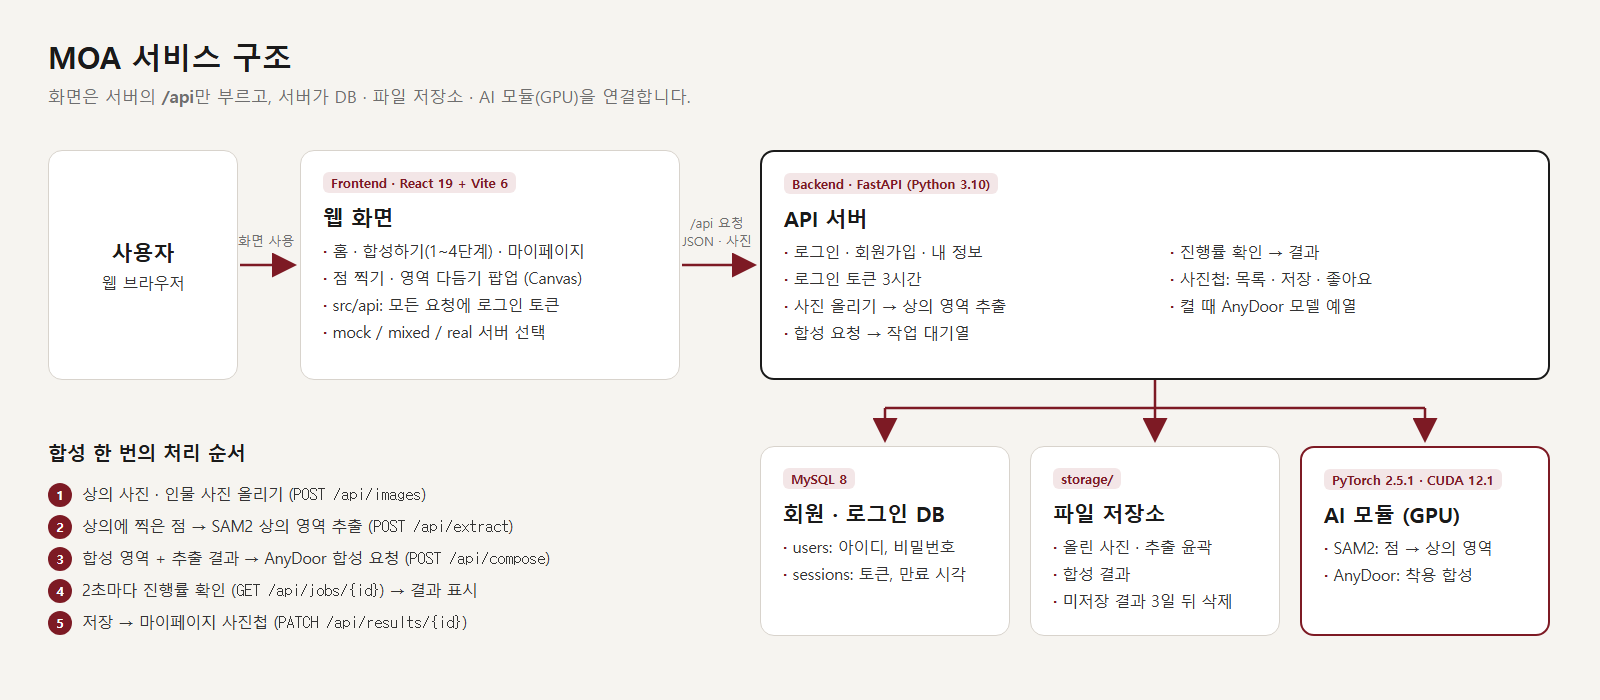
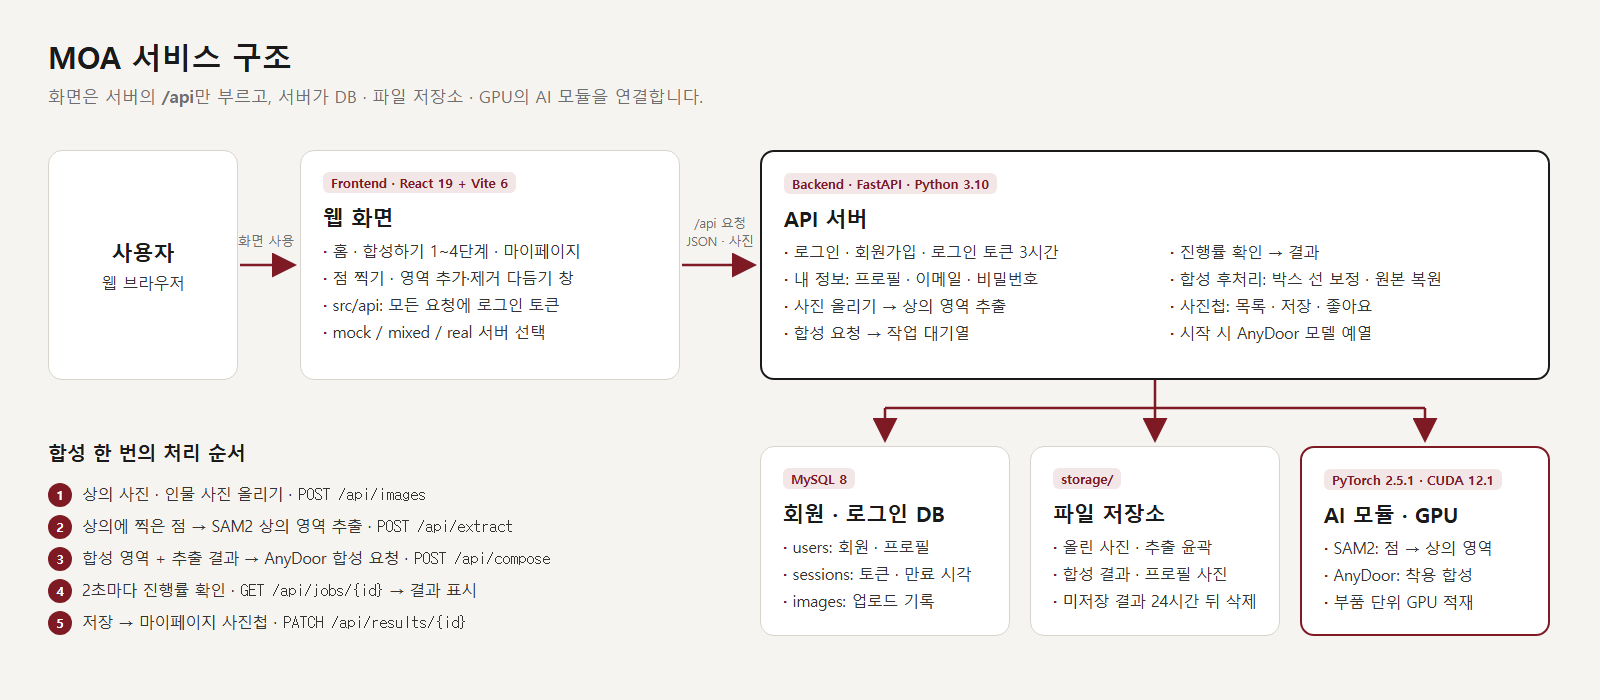
다듬기 창 도구 영역 추가·영역 제거, README 사진 새로 찍기
- 다듬기 창: 브러시·지우개를 아이콘과 영역 추가·영역 제거 이름으로 바꾸고 상단 가운데로 이동
- 설정·고객센터 안내 문구 정리
- README 사진 11장 2026-10-23 화면으로 교체: docs/readme 5장, frontend/docs/images 6장
- 구조도: 미저장 결과 24시간, images 표, 프로필, 합성 후처리, 부품 단위 GPU 적재 반영
- README·frontend/README: 도구 이름 변경, 노란 물체 안내 삭제, 캡처 날짜 표시

diff --git a/frontend/src/pages/Studio.jsx b/frontend/src/pages/Studio.jsx
@@ -1,7 +1,7 @@
 /* 합성하기: 단계별 안내 화면
    1 상의 사진 고르기 -> 2 인물 사진 고르기
-   -> 3 점 찍어 상의 추출 -> 확인 -> 다듬기 팝업(브러시, 지우개) -> 완료
-   -> 4 점 찍어 입힐 영역 추출 -> 확인 -> 다듬기 팝업(브러시, 지우개) -> 다음 -> 합성 설정 팝업(체크 두 개) -> 합성 시작
+   -> 3 점 찍어 상의 추출 -> 확인 -> 다듬기 팝업(영역 추가, 영역 제거) -> 완료
+   -> 4 점 찍어 입힐 영역 추출 -> 확인 -> 다듬기 팝업(영역 추가, 영역 제거) -> 다음 -> 합성 설정 팝업(체크 두 개) -> 합성 시작
    -> 결과, 저장
    오른쪽 "내 작업 기록"은 저장 여부와 관계없이 합성한 결과 전체(명세 6-1)를 보여 준다. 저장하지 않은 결과는 24시간 뒤 서버에서 삭제된다.
    서버 연결 (src/api/studio.js)
@@ -63,7 +63,7 @@ const PICK_TEXT = {
   2: { title: '2. 인물 사진 선택', helpTitle: '권장 사진', help: <>상의를 입힐 <em>인물</em>의 사진을 선택합니다.<br />상반신이 잘 보이는 사진을 권장합니다.</> },
 };
 
-// 버튼 상태가 그대로면 화면을 다시 그리지 않는다 (브러시로 칠하는 동안 매번 다시 그리는 것을 막음)
+// 버튼 상태가 그대로면 화면을 다시 그리지 않는다 (영역 추가로 칠하는 동안 매번 다시 그리는 것을 막음)
 const sameUi = (a, b) => Object.keys(b).every((k) => a[k] === b[k]);
 
 const PANEL_KEYS ={ left: 'moa_panel_left', right: 'moa_panel_right' };
@@ -481,7 +481,7 @@ export default function Studio() {
     go(4);
   };
 
-  /* ---------- 4단계: 합성 영역 지정 (3단계와 같이 점 → SAM2 → 팝업에서 브러시와 지우개) ---------- */
+  /* ---------- 4단계: 합성 영역 지정 (3단계와 같이 점 → SAM2 → 팝업에서 영역 추가와 영역 제거) ---------- */
   const render4 = () => {
     const s = s4.current;
     if (!s.work) return;
@@ -1007,7 +1007,7 @@ export default function Studio() {
         <MaskEditor
           key={editor.kind}
           title="상의 영역 수정"
-          help="빠진 부분은 브러시로 칠하고, 잘못 잡힌 부분은 지우개로 지웁니다."
+          help="빠진 부분은 영역 추가로 칠하고, 잘못 잡힌 부분은 영역 제거로 지웁니다."
           image={editor.image}
           mask={editor.mask}
           cancelLabel="점 재지정"
@@ -1020,7 +1020,7 @@ export default function Studio() {
         <MaskEditor
           key={editor.kind}
           title="합성 영역 수정"
-          help="빠진 부분은 브러시로 칠하고, 잘못 잡힌 부분은 지우개로 지웁니다."
+          help="빠진 부분은 영역 추가로 칠하고, 잘못 잡힌 부분은 영역 제거로 지웁니다."
           image={editor.image}
           mask={editor.mask}
           cancelLabel="점 재지정"

diff --git a/frontend/src/studio/MaskEditor.jsx b/frontend/src/studio/MaskEditor.jsx
@@ -1,4 +1,4 @@
-/* 다듬기 팝업: 점 찍기로 잡은 영역을 브러시(추가)와 지우개(삭제)로 손본다. 3단계(상의 추출)와 4단계(합성 영역)가 같이 쓴다.
+/* 다듬기 팝업: 점 찍기로 잡은 영역을 영역 추가와 영역 제거로 손본다. 3단계(상의 추출)와 4단계(합성 영역)가 같이 쓴다.
    image: 작업용 사진 캔버스, mask: 시작할 영역(흰색 캔버스). 원본은 건드리지 않고 사본을 고쳐서 onDone으로 돌려준다.
    영역은 포토샵 선택 영역처럼 보여 준다: 안쪽은 움직이는 검정·흰색 빗금, 가장자리는 움직이는 흑백 점선 (canvas.js paintSelection).
    확대 보기, 10/21: zoom.js와 같은 보기 상태 사용. 휠·＋/－ 버튼으로 확대, 스페이스바를 누른 채 끌거나 오른쪽·가운데 버튼으로 끌면 이동.
@@ -239,12 +239,19 @@ export default function MaskEditor({ title, help, image, mask, cancelLabel, done
           <h3>{title}</h3>
           <button type="button" className="sg-modal-close" aria-label="닫기" onClick={onCancel}>×</button>
         </div>
-        <div className="sg-help"><b>사용 방법</b><p>{help}</p></div>
+        {/* 도구: 상단 가운데, 아이콘과 하는 일 이름으로 표시 */}
         <div className="sg-tools">
-          <button type="button" className={'sg-tool' + (tool === 'brush' ? ' active' : '')} onClick={() => chooseTool('brush')}>브러시</button>
-          <button type="button" className={'sg-tool' + (tool === 'eraser' ? ' active' : '')} onClick={() => chooseTool('eraser')}>지우개</button>
+          <button type="button" className={'sg-tool' + (tool === 'brush' ? ' active' : '')} onClick={() => chooseTool('brush')}>
+            <svg viewBox="0 0 24 24" aria-hidden="true"><path d="M4 20l4.5-1 9.8-9.8a2.1 2.1 0 0 0-3-3L5.5 16 4 20z" /><path d="M18 15v6M15 18h6" /></svg>
+            영역 추가
+          </button>
+          <button type="button" className={'sg-tool' + (tool === 'eraser' ? ' active' : '')} onClick={() => chooseTool('eraser')}>
+            <svg viewBox="0 0 24 24" aria-hidden="true"><path d="M15.5 4.5l4 4-9 9H6.5l-3-3 12-10z" /><path d="M9 20h11M8.5 10.5l5 5" /></svg>
+            영역 제거
+          </button>
           <label className="sg-size">크기 <input type="range" min="10" max="90" value={size} onChange={(e) => changeSize(Number(e.target.value))} /></label>
         </div>
+        <div className="sg-help"><b>사용 방법</b><p>{help}</p></div>
         <div className="sg-canvas-box" onMouseLeave={() => setRing(null)}>
           <div className="sg-zoom" role="group" aria-label="사진 확대">
             <button type="button" aria-label="확대" onClick={() => zoomBy(1.5)}>＋</button>

diff --git a/frontend/src/mypage/Support.jsx b/frontend/src/mypage/Support.jsx
@@ -10,7 +10,7 @@ const FAQ = [
   ['어떤 사진을 올릴 수 있나요?',
     'JPG·PNG 형식, 10MB 이하 사진을 올릴 수 있습니다. 상의 사진은 상의 전체가 잘 보이는 사진, 인물 사진은 상체가 정면으로 나온 사진일수록 결과가 자연스럽습니다.'],
   ['상의 영역이 잘못 잡혔어요.',
-    '3단계에서 포함할 부분은 왼쪽 클릭, 뺄 부분은 오른쪽 클릭으로 점을 더 찍으면 다시 추출합니다. 경계가 조금 어긋나면 브러시와 지우개로 직접 고칠 수 있습니다.'],
+    '3단계에서 포함할 부분은 왼쪽 클릭, 뺄 부분은 오른쪽 클릭으로 점을 더 찍으면 다시 추출합니다. 경계가 조금 어긋나면 다듬기 창의 영역 추가와 영역 제거로 직접 고칠 수 있습니다.'],
   ['합성은 얼마나 걸리나요?',
     '한 장에 약 25초가 걸립니다. 앞선 합성 요청이 있으면 순서대로 처리하며, 화면에 대기 순번과 진행률이 표시됩니다. 마이페이지 설정에서 합성 완료 알림을 켜면 다른 탭에 있어도 알려 드립니다.'],
   ['저장하지 않은 결과는 어떻게 되나요?',

diff --git a/frontend/src/styles/studio-guide.css b/frontend/src/styles/studio-guide.css
@@ -588,10 +588,13 @@ body { display: flex; flex-direction: column; overflow: hidden; }
   color: var(--muted);
 }
 
-.sg-tools { flex: none; display: flex; align-items: center; gap: 8px; margin-bottom: 10px; }
+.sg-tools { flex: none; display: flex; align-items: center; justify-content: center; gap: 10px; margin-bottom: 12px; }
 .sg-tool {
-  height: 40px;
-  padding: 0 18px;
+  display: inline-flex;
+  align-items: center;
+  gap: 8px;
+  height: 44px;
+  padding: 0 20px;
   border: 1.5px solid var(--border);
   background: var(--white);
   color: var(--muted);
@@ -601,8 +604,9 @@ body { display: flex; flex-direction: column; overflow: hidden; }
 }
 .sg-tool:hover { border-color: #b9b5a8; }
 .sg-tool.active { border-color: var(--ink); background: var(--ink); color: #fff; }
+.sg-tool svg { width: 20px; height: 20px; fill: none; stroke: currentColor; stroke-width: 1.8; stroke-linecap: round; stroke-linejoin: round; }
 .sg-size {
-  margin-left: auto;
+  margin-left: 14px;
   display: flex;
   align-items: center;
   gap: 8px;

diff --git a/frontend/src/mypage/Settings.jsx b/frontend/src/mypage/Settings.jsx
@@ -280,7 +280,7 @@ export function ServiceSettings({ showToast }) {
       <Section id="set-notify" title="알림 설정" desc="이 브라우저에서 받을 알림입니다. 기기마다 따로 설정합니다.">
         <NotifyForm showToast={showToast} />
       </Section>
-      <Section id="set-compose" title="합성 기본 설정" desc="합성 설정 창에 처음부터 선택해 둘 항목입니다. 합성할 때마다 바꿀 수 있습니다.">
+      <Section id="set-compose" title="합성 기본 설정" desc="합성 시 기본으로 선택되는 항목입니다. 합성마다 변경할 수 있습니다.">
         <ComposeDefaultsForm showToast={showToast} />
       </Section>
     </>

diff --git a/frontend/README.md b/frontend/README.md
@@ -37,10 +37,10 @@
 - **마우스 휠로 확대**, 끌어서 이동, 휴대폰은 두 손가락으로 확대 (최대 6배, `src/studio/zoom.js`). 확대해도 점은 원본 사진 위치로 정확히 보낸다
 - "확인"을 누르면 점을 서버에 보내 SAM2로 상의 윤곽을 찾고(명세 4-1, 약 2.5초) 다듬기 창을 연다
 
-![다듬기 창: 선택 영역 표시와 지우개](docs/images/step3_refine.jpg)
+![다듬기 창: 선택 영역 표시와 영역 제거](docs/images/step3_refine.jpg)
 
-- 다듬기 창(`src/studio/MaskEditor.jsx`): 브러시로 빠진 부분을 칠하고 지우개로 잘못 잡힌 부분을 지운다. 크기 조절, 실행 취소
-- 다듬기 창 확대: 휠·＋/－ 버튼으로 확대, 스페이스바를 누른 채 끌거나 오른쪽 버튼으로 끌면 이동, "전체"로 원래 크기. 브러시 크기는 화면 기준이라 확대할수록 경계를 가늘게 고칠 수 있다
+- 다듬기 창 `src/studio/MaskEditor.jsx`: 상단 가운데 도구의 영역 추가로 빠진 부분을 칠하고 영역 제거로 잘못 잡힌 부분을 지운다. 크기 조절, 실행 취소
+- 다듬기 창 확대: 휠·＋/－ 버튼으로 확대, 스페이스바를 누른 채 끌거나 오른쪽 버튼으로 끌면 이동, "전체"로 원래 크기. 도구 크기는 화면 기준이라 확대할수록 경계를 가늘게 고칠 수 있다
 - 선택 영역은 검정·흰 빗금과 움직이는 점선으로 표시한다 (채도 0이라 어떤 색 옷 위에서도 보임)
 - 점을 바꾸지 않았으면 서버에 다시 묻지 않고 지난번에 다듬은 영역에서 이어서 한다
 
@@ -135,7 +135,7 @@ frontend/
    ├─ studio/
    │  ├─ canvas.js          그리기 도우미 (사진 맞추기, 점, 선택 영역 표시, 사진이 칸으로 날아가는 효과)
    │  ├─ zoom.js            3·4단계 확대·이동·두 손가락 확대
-   │  └─ MaskEditor.jsx     다듬기 창: 브러시·지우개, 확대·이동
+   │  └─ MaskEditor.jsx     다듬기 창: 영역 추가·영역 제거, 확대·이동
    ├─ auth/
    │  ├─ AuthContext.jsx    로그인 상태, 로그인 창
    │  ├─ SignupModal.jsx    회원가입 창
@@ -192,13 +192,13 @@ frontend/
 
 ## 9. 확인한 것 (2026-10-17)
 
-- 실제 서버 전체 흐름: 로그인 → 상의·인물 예시 선택 → 3단계 점 2개, SAM2 추출 5초 → 지우개 보정 → 4단계 → 합성 56초 → 저장 → 초기화 → 작업 기록에서 1~4단계 복원 → 재합성 → 마이페이지 사진첩
+- 실제 서버 전체 흐름: 로그인 → 상의·인물 예시 선택 → 3단계 점 2개, SAM2 추출 5초 → 영역 제거 보정 → 4단계 → 합성 56초 → 저장 → 초기화 → 작업 기록에서 1~4단계 복원 → 재합성 → 마이페이지 사진첩
 - Cloudflare 터널로 휴대폰·외부 PC 접속, 합성 포함 전체 흐름
 - `npm run lint`, `npm run build` 통과
 - 2026-10-20 마이페이지: 설정 저장 뒤 프로필 카드 즉시 반영, 서버 오류 문구 표시, ⋯ 메뉴·크게 보기, 다운로드할 결과 파일 응답 200, 계정 설정 항목별 화면·설정·고객센터 전환, 합성 기본 설정 저장, 휴대폰 폭 375px 가로 스크롤 없음
 
 ## 10. 남은 일
 
-- 휴대폰: 다듬기 창 브러시가 동작하지 않고, 제외 점(오른쪽 클릭)을 찍을 방법이 없다
+- 휴대폰: 다듬기 창 영역 추가가 동작하지 않고, 제외 점(오른쪽 클릭)을 찍을 방법이 없다
 - 로그인 시간 연장: API 함수(`extendLogin`)는 있지만 화면에 연결하지 않았다 (`docs/login_extend.md`)
 - 사진첩 결과 삭제: 명세 6-3이 미정이라 메뉴에 없다

diff --git a/README.md b/README.md
@@ -123,7 +123,7 @@ Backend ↔ MySQL · storage/ · GPU
 </p>
 
 - 예시 사진은 모두 AI로 만든 이미지입니다.
-- 가슴 앞의 노란 물체는 합성 과정에서 생긴 것이며, 원인은 [9장](#9-known-issues)에 정리했습니다.
+- 화면 캡처: 2026-10-23, 실제 서버 연결 상태
 
 ---
 
